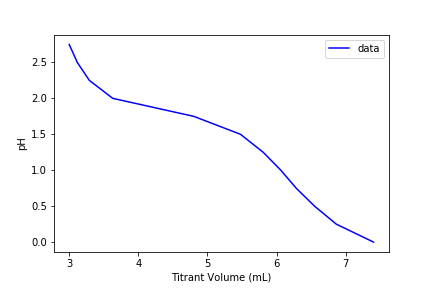
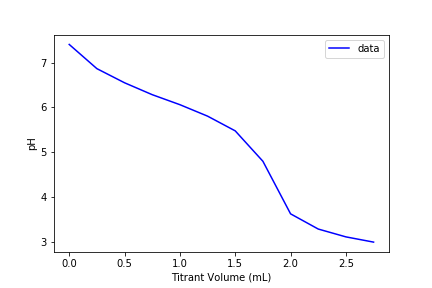
asd

diff --git a/Lab3/team10_lab3.md b/Lab3/team10_lab3.md
@@ -36,7 +36,7 @@ from scipy import stats
 Gran_data_0 = 'https://raw.githubusercontent.com/lw583/CEE4530/master/Lab3/0_minute_sample.xls'
 V_titrant, pH, V_Sample, Normality_Titrant, V_equivalent, ANC = epa.Gran(Gran_data_0)
 
-plt.plot(pH, V_titrant,'b-')
+plt.plot(V_titrant,pH,'b-')
 plt.xlabel('Titrant Volume (mL)')
 plt.ylabel('pH')
 plt.legend(['data'])
